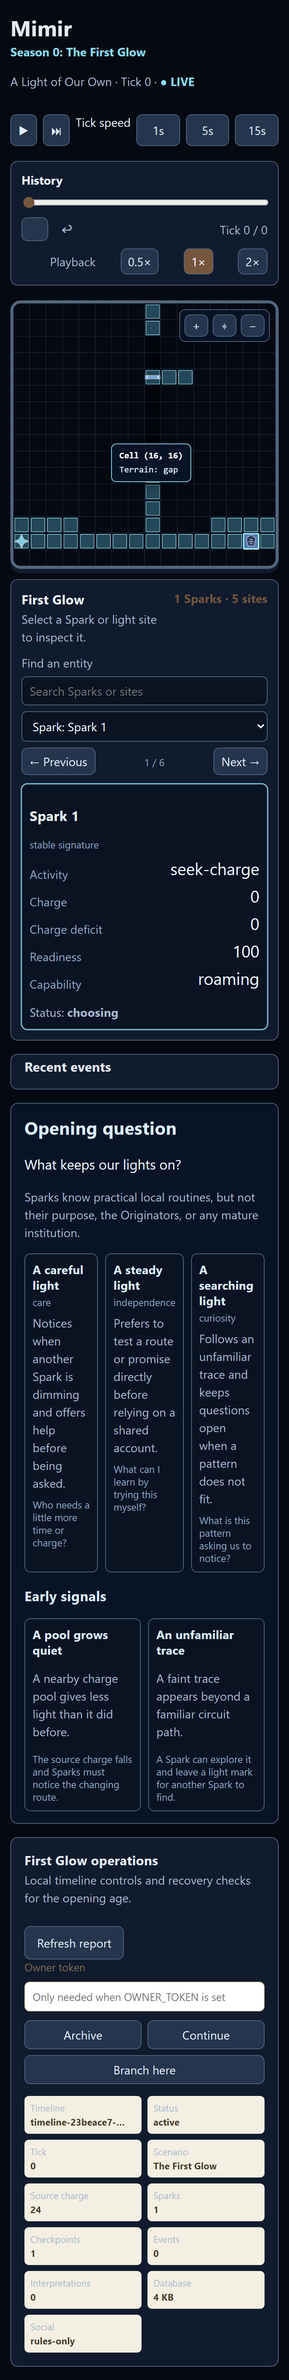
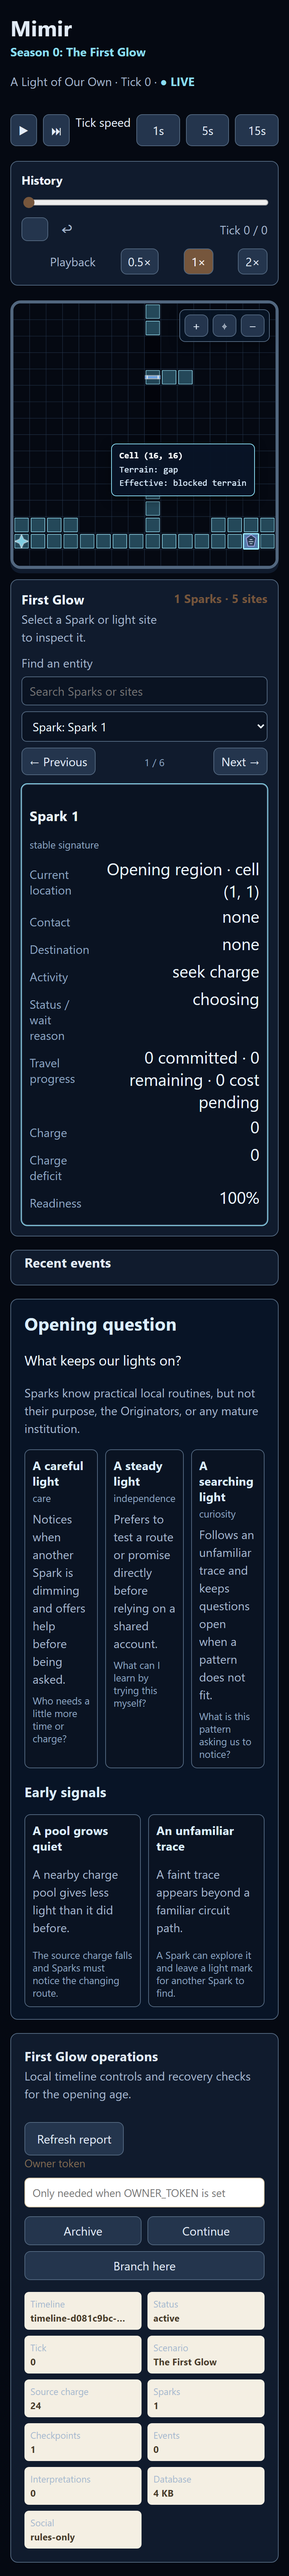
Extract First Glow scene modules and inspector

diff --git a/packages/web/src/main.tsx b/packages/web/src/main.tsx
@@ -1,9 +1,14 @@
 import { StrictMode, useEffect, useRef, useState } from "react";
 import { createRoot } from "react-dom/client";
 import Phaser from "phaser";
-import { parseWorldDefinition, queryCell } from "@mimir/engine";
+import { parseWorldDefinition } from "@mimir/engine";
 import type { Cell, MovementModel, WorldDefinition } from "@mimir/engine";
 import { FirstGlowInspector, type FirstGlowObject, type FirstGlowSpark } from "./first-glow.js";
+import { firstGlowAssetKey, firstGlowAssetUrl } from "./first-glow-assets.js";
+import { firstGlowSceneLifecycle } from "./first-glow-lifecycle.js";
+import { firstGlowPlaybackStepMs } from "./first-glow-playback.js";
+import { firstGlowSparkDepth, firstGlowSparkScreenPosition } from "./first-glow-rendering.js";
+import { firstGlowBlockedSummary, firstGlowCellQuery, firstGlowGroundDepth } from "./first-glow-scene.js";
 import { HistoryRequestSequencer } from "./history-sequencing.js";
 import "./styles.css";
 
@@ -67,19 +72,9 @@ function firstGlowWorldDefinition(bundle: FirstGlowBundle): WorldDefinition & { 
   return { schemaVersion: 1, id: bundle.id, bundle: { bundleId: bundle.id, schemaVersion: 1, contentHash: bundle.bundle.contentHash, assetVersion: bundle.bundle.assetVersion }, width: bundle.width, height: bundle.height, terrain: bundle.terrain as WorldDefinition["terrain"], objects: bundle.objects.map(object => ({ id: object.id, definitionId: object.definitionId as WorldDefinition["objects"][number]["definitionId"], position: object.origin })), definitions: definitions as WorldDefinition["definitions"], firstGlowBundle: bundle };
 }
 
-function firstGlowCellQuery(bundle: FirstGlowBundle, runtime: VillageCanvasProps["firstGlowRuntime"], cell: Cell) {
-  return queryCell(bundle as Parameters<typeof queryCell>[0], (runtime ?? { navigationRevision: 0, objects: [], reservations: [] }) as Parameters<typeof queryCell>[1], cell);
-}
+type VillageCanvasProps = { villagers: Villager[]; sparks?: Spark[]; firstGlowBundle?: FirstGlowBundle; firstGlowRuntime?: { navigationRevision: number; objects: { objectId: string; blocked: boolean }[]; reservations: { actorId: string; objectId: string; slotId: string }[] }; assetBaseUrl?: string; worldDefinition?: WorldDefinition; worldRuntime?: { blockedObjectIds: string[] }; playbackRate: number; zoom: number; onZoomChange: (nextZoom: number | ((currentZoom: number) => number)) => void; tick: number; history: boolean; regionName?: string; selectedEntityId?: string | null; onSelectEntity?: (entityId: string) => void; debugOverlay?: boolean };
 
-type VillageCanvasProps = { villagers: Villager[]; sparks?: Spark[]; firstGlowBundle?: FirstGlowBundle; firstGlowRuntime?: { navigationRevision: number; objects: { objectId: string; blocked: boolean }[]; reservations: { actorId: string; objectId: string; slotId: string }[] }; assetBaseUrl?: string; worldDefinition?: WorldDefinition; worldRuntime?: { blockedObjectIds: string[] }; playbackRate: number; zoom: number; onZoomChange: (nextZoom: number | ((currentZoom: number) => number)) => void; tick: number; history: boolean; selectedEntityId?: string | null; onSelectEntity?: (entityId: string) => void; debugOverlay?: boolean };
-const groundDepth = (cell: Cell) => 20 + cell.y * 10;
-function firstGlowBlockedSummary(bundle: FirstGlowBundle, runtime: VillageCanvasProps["firstGlowRuntime"]): string {
-  const counts = new Map<string, number>();
-  for (let y = 0; y < bundle.height; y += 1) for (let x = 0; x < bundle.width; x += 1) { const result = firstGlowCellQuery(bundle, runtime, { x, y }); if (!result.walkable) counts.set(result.reason, (counts.get(result.reason) ?? 0) + 1); }
-  return [...counts.entries()].sort(([a], [b]) => a.localeCompare(b)).map(([reason, count]) => `${reason}:${count}`).join(" · ") || "none";
-}
-
-function VillageCanvas({ villagers, sparks = [], firstGlowBundle, firstGlowRuntime, assetBaseUrl, worldDefinition, worldRuntime, playbackRate, zoom, onZoomChange, tick, history, selectedEntityId, onSelectEntity, debugOverlay = false }: VillageCanvasProps) {
+function VillageCanvas({ villagers, sparks = [], firstGlowBundle, firstGlowRuntime, assetBaseUrl, worldDefinition, worldRuntime, playbackRate, zoom, onZoomChange, tick, history, regionName = "Opening region", selectedEntityId, onSelectEntity, debugOverlay = false }: VillageCanvasProps) {
   const villagersRef = useRef(villagers);
   const peopleRef = useRef(new Map<string, Phaser.GameObjects.Container>());
   const sceneRef = useRef<Phaser.Scene | null>(null);
@@ -122,17 +117,18 @@ function VillageCanvas({ villagers, sparks = [], firstGlowBundle, firstGlowRunti
       if (route.length <= 1) person.setPosition(screenPosition(route[0]).x, screenPosition(route[0]).y);
       if (interpolate && route.length > 1) route.slice(1).forEach((step, stepIndex) => {
         const destination = screenPosition(step);
-        scene.tweens.add({ targets: person, x: destination.x, y: destination.y, duration: 180, delay: stepIndex * 180, ease: "Stepped" });
+        const stepMs = firstGlowPlaybackStepMs(playbackRate);
+        scene.tweens.add({ targets: person, x: destination.x, y: destination.y, duration: stepMs, delay: stepIndex * stepMs, ease: "Stepped" });
       });
       if (!interpolate || route.length <= 1) { const endpoint = screenPosition(route.at(-1) ?? villager.position); person.setPosition(endpoint.x, endpoint.y); }
-      person.setDepth(groundDepth(villager.position));
+      person.setDepth(firstGlowGroundDepth(villager.position));
     });
     lastTickRef.current = tick;
   };
   const syncSparks = (scene: Phaser.Scene, nextSparks: Spark[]) => {
     const tileSize = 24; const nextIds = new Set(nextSparks.map(spark => spark.id));
     peopleRef.current.forEach((person, id) => { if (!nextIds.has(id)) { person.destroy(); peopleRef.current.delete(id); } });
-     nextSparks.forEach((spark) => { const position = { x: spark.position.x * tileSize + tileSize / 2, y: spark.position.y * tileSize + tileSize / 2 }; let core = peopleRef.current.get(spark.id); if (!core) { core = scene.add.container(position.x, position.y); core.add(scene.add.circle(0, 0, 9, 0x8addf2, 0.16)); core.add(scene.add.circle(0, 0, 5, 0xedf7ff, 1)); core.add(scene.add.circle(6, -6, 2, 0xc7b7ff, 1)); core.setBlendMode(Phaser.BlendModes.ADD); peopleRef.current.set(spark.id, core); scene.tweens.add({ targets: core.list[0], scale: 1.25, alpha: 0.08, duration: 700, yoyo: true, repeat: -1, ease: "Sine.easeInOut" }); } core.setPosition(position.x, position.y); core.setDepth(groundDepth(spark.position) + 80); });
+     nextSparks.forEach((spark) => { const position = firstGlowSparkScreenPosition(spark.position, tileSize); let core = peopleRef.current.get(spark.id); if (!core) { core = scene.add.container(position.x, position.y); core.add(scene.add.circle(0, 0, 9, 0x8addf2, 0.16)); core.add(scene.add.circle(0, 0, 5, 0xedf7ff, 1)); core.add(scene.add.circle(6, -6, 2, 0xc7b7ff, 1)); core.setBlendMode(Phaser.BlendModes.ADD); peopleRef.current.set(spark.id, core); scene.tweens.add({ targets: core.list[0], scale: 1.25, alpha: 0.08, duration: 700, yoyo: true, repeat: -1, ease: "Sine.easeInOut" }); } core.setPosition(position.x, position.y); core.setDepth(firstGlowSparkDepth(spark.position)); });
     document.getElementById("village-canvas")?.setAttribute("data-rendered-spark-coordinates", JSON.stringify(Object.fromEntries(nextSparks.map(spark => [spark.id, { x: spark.position.x * tileSize + tileSize / 2, y: spark.position.y * tileSize + tileSize / 2 }]))));
   };
   useEffect(() => {
@@ -262,7 +258,7 @@ function VillageCanvas({ villagers, sparks = [], firstGlowBundle, firstGlowRunti
         window.removeEventListener("pointercancel", onPointerUp);
       };
        const glowBundle = firstGlowBundle ?? (worldDefinition as (WorldDefinition & { firstGlowBundle?: FirstGlowBundle }) | undefined)?.firstGlowBundle;
-        if (sparks.length && glowBundle && assetBaseUrl && glowBundle.assets?.length) { const assetKeys = new Map(glowBundle.assets.map(asset => [asset.path, `${glowBundle.bundle.contentHash}:${asset.path}`])); for (const asset of glowBundle.assets) scene.load.image(assetKeys.get(asset.path)!, `${assetBaseUrl}/api/world/bundles/${glowBundle.bundle.contentHash}/${asset.path}`); scene.load.once("complete", () => { worldDefinition?.objects.forEach(object => { const visualAsset = glowBundle.objectDefinitions[object.definitionId]?.visualAsset; const key = visualAsset ? assetKeys.get(visualAsset) : undefined; if (!key || !scene.textures.exists(key)) return; const definition = glowBundle.objectDefinitions[object.definitionId]; const contact = definition?.groundContact ?? { x: 0, y: 0 }; const foregroundDepth = definition?.foreground ? 200 : 0; const image = scene.add.image((object.position.x + 0.5) * tileSize, (object.position.y + 0.5) * tileSize, key).setDisplaySize(tileSize, tileSize).setDepth(groundDepth({ x: object.position.x + contact.x, y: object.position.y + contact.y }) + 2 + foregroundDepth); image.setAlpha(0.9); }); }); scene.load.start(); }
+        if (sparks.length && glowBundle && assetBaseUrl && glowBundle.assets?.length) { const assetKeys = new Map(glowBundle.assets.map(asset => [asset.path, firstGlowAssetKey(glowBundle.bundle.contentHash, asset.path)])); for (const asset of glowBundle.assets) scene.load.image(assetKeys.get(asset.path)!, firstGlowAssetUrl(assetBaseUrl, glowBundle.bundle.contentHash, asset.path)); scene.load.once("complete", () => { worldDefinition?.objects.forEach(object => { const visualAsset = glowBundle.objectDefinitions[object.definitionId]?.visualAsset; const key = visualAsset ? assetKeys.get(visualAsset) : undefined; if (!key || !scene.textures.exists(key)) return; const definition = glowBundle.objectDefinitions[object.definitionId]; const contact = definition?.groundContact ?? { x: 0, y: 0 }; const foregroundDepth = definition?.foreground ? 200 : 0; const image = scene.add.image((object.position.x + 0.5) * tileSize, (object.position.y + 0.5) * tileSize, key).setDisplaySize(tileSize, tileSize).setDepth(firstGlowGroundDepth({ x: object.position.x + contact.x, y: object.position.y + contact.y }) + 2 + foregroundDepth); image.setAlpha(0.9); }); }); scene.load.start(); }
        const terrainColors: Record<string, number> = sparks.length ? { open: 0x050912, gap: 0x02040b } : { grass: 0x9dbc72, road: 0xd8b878, water: 0x5797b5 };
        for (let y = 0; y < (worldDefinition?.height ?? 100); y += 1) for (let x = 0; x < (worldDefinition?.width ?? 100); x += 1) {
          const kind = worldDefinition?.terrain[y]?.[x] ?? "grass";
@@ -274,7 +270,7 @@ function VillageCanvas({ villagers, sparks = [], firstGlowBundle, firstGlowRunti
          const blocked = sparks.length ? Boolean(firstGlowRuntime?.objects.find(item => item.objectId === object.id)?.blocked) : Boolean(worldRuntime?.blockedObjectIds?.includes(object.id));
          const color = sparks.length ? (blocked ? 0xb05dff : object.definitionId === "relay-crossing" ? 0x9eeaff : 0x527aa8) : (blocked ? 0xb54f4f : object.definitionId === "tree" ? 0x3e7046 : object.definitionId === "bridge" ? 0x8b5e3c : object.definitionId === "granary" ? 0x9d5f3f : 0x76563c);
          const objectCells = definition?.footprint ?? [];
-          const objectDefinition = glowBundle?.objectDefinitions[object.definitionId]; const contact = (objectDefinition?.groundContact ?? { x: 0, y: 0 }); const objectDepth = groundDepth({ x: object.position.x + contact.x, y: object.position.y + contact.y }) + (objectDefinition?.foreground ? 200 : 0);
+          const objectDefinition = glowBundle?.objectDefinitions[object.definitionId]; const contact = (objectDefinition?.groundContact ?? { x: 0, y: 0 }); const objectDepth = firstGlowGroundDepth({ x: object.position.x + contact.x, y: object.position.y + contact.y }) + (objectDefinition?.foreground ? 200 : 0);
           objectCells.forEach((offset) => scene.add.rectangle((object.position.x + offset.x) * tileSize + tileSize / 2, (object.position.y + offset.y) * tileSize + tileSize / 2, tileSize - 2, tileSize - 2, color).setOrigin(0.5).setDepth(objectDepth).setStrokeStyle(2, sparks.length ? 0x9eeaff : 0x493b2a));
          if (debugOverlay) { scene.add.text(object.position.x * tileSize + 2, object.position.y * tileSize + 2, `${object.id}${blocked ? " [blocked]" : ""}`, { color: "#fff7e8", fontSize: "8px", backgroundColor: sparks.length ? "#081426" : "#493b2a" }).setDepth(1000); definition?.interactionSlots.forEach((slot) => { const reservation = firstGlowRuntime?.reservations.find(item => item.objectId === object.id && item.slotId === slot.id); scene.add.rectangle((object.position.x + slot.x) * tileSize + tileSize / 2, (object.position.y + slot.y) * tileSize + tileSize / 2, tileSize - 8, tileSize - 8, reservation ? 0xf4c95d : 0x3d8c72, 0.45).setDepth(1001).setStrokeStyle(1, reservation ? 0xfff2ad : 0x2a5d4b); scene.add.text((object.position.x + slot.x) * tileSize + 1, (object.position.y + slot.y) * tileSize + 1, reservation ? `contact:${slot.id} <- ${reservation.actorId}` : `contact:${slot.id}`, { color: reservation ? "#fff2ad" : "#9eeaff", fontSize: "7px", backgroundColor: "#081426" }).setDepth(1002); }); }
        });
@@ -282,7 +278,7 @@ function VillageCanvas({ villagers, sparks = [], firstGlowBundle, firstGlowRunti
         if (!sparks.length) scene.add.text(8, 22, "THE FIRST WINTER", { color: "#fff7e8", fontSize: "22px", fontFamily: "monospace", stroke: "#493b2a", strokeThickness: 4 });
        if (sparks.length) { syncVillagers(scene, []); syncSparks(scene, sparks); } else syncVillagers(scene, villagersRef.current);
     } } });
-    return () => { isActive = false; disposeInput(); sceneRef.current = null; peopleRef.current.clear(); lastTickRef.current = null; game.destroy(true); };
+    return () => { isActive = false; disposeInput(); sceneRef.current = null; peopleRef.current.clear(); lastTickRef.current = null; if (firstGlowSceneLifecycle.dispose === "destroy") game.destroy(true); };
    }, [debugOverlay, firstGlowBundle?.bundle.contentHash, firstGlowRuntime?.navigationRevision, firstGlowRuntime?.objects.map(item => `${item.objectId}:${item.blocked}`).join(","), worldDefinition?.id, worldDefinition?.bundle.contentHash]);
   useEffect(() => {
     if (sceneRef.current && sparks.length) syncSparks(sceneRef.current, sparks); else if (sceneRef.current && peopleRef.current.size > 0) syncVillagers(sceneRef.current, villagers);
@@ -291,7 +287,7 @@ function VillageCanvas({ villagers, sparks = [], firstGlowBundle, firstGlowRunti
    const hoveredLabel = hoveredCell && firstGlowBundle ? (() => { const { x, y } = hoveredCell; const terrain = firstGlowBundle.terrain[y]?.[x] ?? "unknown"; const surface = firstGlowBundle.surfaces.find(item => item.enabled && item.cells.some(cell => cell.x === x && cell.y === y)); const spawn = firstGlowBundle.spawns.find(item => item.cell.x === x && item.cell.y === y); const object = worldDefinition?.objects.find(candidate => candidate.position.x === x && candidate.position.y === y || (worldDefinition.definitions[candidate.definitionId]?.footprint ?? []).some(offset => candidate.position.x + offset.x === x && candidate.position.y + offset.y === y)); const spark = sparks.find(candidate => candidate.position.x === x && candidate.position.y === y); const query = firstGlowCellQuery(firstGlowBundle, firstGlowRuntime, { x, y }); return [`Cell (${x}, ${y})`, `Terrain: ${terrain}`, `Effective: ${query.walkable ? `walkable cost ${query.cost}` : `blocked ${query.reason}`}`, surface && `Surface: ${surface.id}`, spawn && `Spawn: ${spawn.id}`, object && `Object: ${object.id} · ${object.definitionId}`, spark && `Spark: ${spark.id}`].filter((value): value is string => Boolean(value)); })() : null;
   const adjustZoom = (delta: number) => onZoomChange(Number(Math.max(FIRST_GLOW_MIN_ZOOM, Math.min(MAX_ZOOM, zoom + delta)).toFixed(2)));
   const fitZoom = sparks.length ? 2 : 1;
-  return <div className="village-stage"><div className="village-zoom"><div id="village-canvas" />{worldDefinition?.width === 32 && worldDefinition.height === 32 && <div className="first-glow-map-controls" aria-label="Map zoom controls"><button className="compact-button" onClick={() => adjustZoom(0.1)} aria-label="+" title="Zoom in"><span aria-hidden="true">+</span></button><button className="compact-button" onClick={() => onZoomChange(fitZoom)} aria-label="Fit" title="Show a 16 by 16 view"><span aria-hidden="true">⌖</span></button><button className="compact-button" onClick={() => adjustZoom(-0.1)} aria-label="−" title="Zoom out"><span aria-hidden="true">−</span></button></div>}</div>{hoveredLabel && hoveredCell && <div className="first-glow-cell-tooltip" data-testid="first-glow-cell-tooltip" style={{ left: `${Math.max(8, Math.min(window.innerWidth - 240, hoveredCell.clientX + 12))}px`, top: `${Math.max(8, Math.min(window.innerHeight - 140, hoveredCell.clientY + 12))}px` }}>{hoveredLabel.map((label) => <span key={label}>{label}</span>)}</div>}{sparks.length > 0 && debugOverlay && <p className="first-glow-overlay-summary" data-testid="first-glow-overlay-summary">{overlaySummary}</p>}{sparks.length > 0 && <FirstGlowInspector sparks={sparks} objects={worldDefinition?.objects.map((object) => ({ id: object.id, definitionId: object.definitionId, position: object.position, blocked: Boolean(firstGlowRuntime?.objects.find((item) => item.objectId === object.id)?.blocked), capabilities: worldDefinition.definitions[object.definitionId]?.activities ?? [] })) ?? []} selectedEntityId={selectedEntityId} onSelectEntity={onSelectEntity ?? (() => undefined)} debugOverlay={debugOverlay} />}</div>;
+   return <div className="village-stage"><div className="village-zoom"><div id="village-canvas" />{worldDefinition?.width === 32 && worldDefinition.height === 32 && <div className="first-glow-map-controls" aria-label="Map zoom controls"><button className="compact-button" onClick={() => adjustZoom(0.1)} aria-label="+" title="Zoom in"><span aria-hidden="true">+</span></button><button className="compact-button" onClick={() => onZoomChange(fitZoom)} aria-label="Fit" title="Show a 16 by 16 view"><span aria-hidden="true">⌖</span></button><button className="compact-button" onClick={() => adjustZoom(-0.1)} aria-label="−" title="Zoom out"><span aria-hidden="true">−</span></button></div>}</div>{hoveredLabel && hoveredCell && <div className="first-glow-cell-tooltip" data-testid="first-glow-cell-tooltip" style={{ left: `${Math.max(8, Math.min(window.innerWidth - 240, hoveredCell.clientX + 12))}px`, top: `${Math.max(8, Math.min(window.innerHeight - 140, hoveredCell.clientY + 12))}px` }}>{hoveredLabel.map((label) => <span key={label}>{label}</span>)}</div>}{sparks.length > 0 && debugOverlay && <p className="first-glow-overlay-summary" data-testid="first-glow-overlay-summary">{overlaySummary}</p>}{sparks.length > 0 && <FirstGlowInspector regionName={regionName} sparks={sparks} objects={worldDefinition?.objects.map((object) => { const definition = worldDefinition.definitions[object.definitionId]; return { id: object.id, label: (definition as { label?: string } | undefined)?.label, definitionId: object.definitionId, position: object.position, blocked: Boolean(firstGlowRuntime?.objects.find((item) => item.objectId === object.id)?.blocked), capabilities: (definition as { activities?: string[] } | undefined)?.activities ?? [], slots: firstGlowBundle?.objectDefinitions[object.definitionId]?.slots ?? [] }; }) ?? []} selectedEntityId={selectedEntityId} onSelectEntity={onSelectEntity ?? (() => undefined)} debugOverlay={debugOverlay} />}</div>;
 }
 
 function OwnerPanel({ ownerToken, setOwnerToken, report, message, onCommand, onRefresh }: { ownerToken: string; setOwnerToken: (value: string) => void; report: Report | null; message: string; onCommand: (path: string, body?: Record<string, unknown>) => void; onRefresh: () => void }) {

diff --git a/packages/web/src/first-glow.tsx b/packages/web/src/first-glow.tsx
@@ -1,5 +1,6 @@
 import { useMemo, useState } from "react";
 import type { Cell } from "@mimir/engine";
+import { firstGlowActivityLabel, firstGlowWaitLabel } from "./first-glow-overlay.js";
 
 export type FirstGlowSpark = {
   id: string;
@@ -9,6 +10,7 @@ export type FirstGlowSpark = {
   intendedActivity: string;
   destinationObjectId?: string;
   destinationSlotId?: string;
+  destinationCell?: Cell;
   remainingRoute: Cell[];
   remainingCost: number;
   committedCells: Cell[];
@@ -20,17 +22,27 @@ export type FirstGlowSpark = {
 
 export type FirstGlowObject = {
   id: string;
+  label?: string;
   definitionId: string;
   position: Cell;
   blocked: boolean;
   capabilities: string[];
+  slots?: { id: string; offset: Cell }[];
 };
 
 function objectLabel(object: FirstGlowObject): string {
-  return object.definitionId.split("-").map((part) => part.charAt(0).toUpperCase() + part.slice(1)).join(" ");
+  return object.label ?? object.definitionId.split("-").map((part) => part.charAt(0).toUpperCase() + part.slice(1)).join(" ");
 }
 
-export function FirstGlowInspector({ sparks, objects, selectedEntityId, onSelectEntity, debugOverlay }: { sparks: FirstGlowSpark[]; objects: FirstGlowObject[]; selectedEntityId: string | null; onSelectEntity: (entityId: string) => void; debugOverlay: boolean }) {
+const cellLabel = (cell: Cell) => `cell (${cell.x}, ${cell.y})`;
+const destinationLabel = (spark: FirstGlowSpark, objects: FirstGlowObject[]) => {
+  const object = objects.find(candidate => candidate.id === spark.destinationObjectId);
+  if (!object) return spark.destinationCell ? cellLabel(spark.destinationCell) : "none";
+  const slot = object.slots?.find(candidate => candidate.id === spark.destinationSlotId);
+  return `${objectLabel(object)} contact${slot ? ` (${slot.id.replaceAll("-", " ")})` : ""} · ${slot ? cellLabel({ x: object.position.x + slot.offset.x, y: object.position.y + slot.offset.y }) : cellLabel(object.position)}`;
+};
+
+export function FirstGlowInspector({ sparks, objects, regionName = "Opening region", selectedEntityId, onSelectEntity, debugOverlay }: { sparks: FirstGlowSpark[]; objects: FirstGlowObject[]; regionName?: string; selectedEntityId: string | null; onSelectEntity: (entityId: string) => void; debugOverlay: boolean }) {
   const [query, setQuery] = useState("");
   const entities = useMemo(() => [
     ...sparks.map((spark) => ({ id: `spark:${spark.id}`, label: spark.name, kind: "Spark", spark })),
@@ -48,7 +60,7 @@ export function FirstGlowInspector({ sparks, objects, selectedEntityId, onSelect
   return <section className="first-glow-inspector" data-testid="first-glow-inspector">
     <div className="season-review-heading"><div><h2>First Glow</h2><p>Select a Spark or light site to inspect it.</p></div><strong>{sparks.length} Sparks · {objects.length} sites</strong></div>
     <div className="entity-controls"><label htmlFor="entity-search">Find an entity</label><input id="entity-search" type="search" value={query} onChange={(event) => setQuery(event.target.value)} placeholder="Search Sparks or sites" /><select aria-label="Selected entity" value={activeEntity?.id ?? ""} onChange={(event) => onSelectEntity(event.target.value)}>{filteredEntities.map((entity) => <option value={entity.id} key={entity.id}>{entity.kind}: {entity.label}</option>)}</select><div className="entity-cycle"><button type="button" onClick={() => cycle(-1)} disabled={filteredEntities.length < 2} aria-label="Previous entity">← Previous</button><span>{activeEntity ? `${Math.max(0, activeIndex) + 1} / ${filteredEntities.length}` : "0 / 0"}</span><button type="button" onClick={() => cycle(1)} disabled={filteredEntities.length < 2} aria-label="Next entity">Next →</button></div></div>
-    {activeEntity?.spark && <article className="spark-card selected-entity-card"><h3>{activeEntity.spark.name}</h3><small>{debugOverlay ? activeEntity.spark.id : "stable signature"}</small><dl><dt>Activity</dt><dd>{activeEntity.spark.intendedActivity}</dd><dt>Charge</dt><dd>{activeEntity.spark.carriedCharge}</dd><dt>Charge deficit</dt><dd>{activeEntity.spark.chargeDeficit}</dd><dt>Readiness</dt><dd>{activeEntity.spark.readiness}</dd><dt>Capability</dt><dd>{debugOverlay && activeEntity.spark.destinationObjectId ? `${activeEntity.spark.destinationObjectId} / ${activeEntity.spark.destinationSlotId ?? "slot"}` : activeEntity.spark.destinationObjectId ? "contact site" : "roaming"}</dd></dl><p>Status: <strong>{activeEntity.spark.status}</strong>{activeEntity.spark.waitReason ? ` · ${activeEntity.spark.waitReason}` : ""}</p></article>}
+    {activeEntity?.spark && <article className="spark-card selected-entity-card"><h3>{activeEntity.spark.name}</h3><small>{debugOverlay ? activeEntity.spark.id : "stable signature"}</small><dl><dt>Current location</dt><dd>{regionName} · {cellLabel(activeEntity.spark.position)}</dd><dt>Contact</dt><dd>{activeEntity.spark.destinationObjectId ? destinationLabel(activeEntity.spark, objects) : "none"}</dd><dt>Destination</dt><dd>{destinationLabel(activeEntity.spark, objects)}</dd><dt>Activity</dt><dd>{firstGlowActivityLabel(activeEntity.spark.intendedActivity)}</dd><dt>Status / wait reason</dt><dd>{firstGlowWaitLabel(activeEntity.spark.status, activeEntity.spark.waitReason)}</dd><dt>Travel progress</dt><dd>{activeEntity.spark.committedCells.length - 1} committed · {activeEntity.spark.remainingRoute.length} remaining · {activeEntity.spark.remainingCost} cost pending</dd><dt>Charge</dt><dd>{activeEntity.spark.carriedCharge}</dd><dt>Charge deficit</dt><dd>{activeEntity.spark.chargeDeficit}</dd><dt>Readiness</dt><dd>{activeEntity.spark.readiness}%</dd></dl></article>}
     {activeEntity?.object && <article className="spark-card selected-entity-card"><h3>{objectLabel(activeEntity.object)}</h3><small>{debugOverlay ? activeEntity.object.id : "light site"}</small><dl><dt>Location</dt><dd>({activeEntity.object.position.x}, {activeEntity.object.position.y})</dd><dt>Status</dt><dd>{activeEntity.object.blocked ? "blocked" : "open"}</dd><dt>Capabilities</dt><dd>{activeEntity.object.capabilities.join(", ") || "none"}</dd></dl><p>Select a nearby Spark to follow its activity at this site.</p></article>}
     {!activeEntity && <p>No matching entities.</p>}
   </section>;

diff --git a/packages/web/src/first-glow-e2e.test.ts b/packages/web/src/first-glow-e2e.test.ts
@@ -23,7 +23,7 @@ try {
   try {
     const desktop = await browser.newPage({ viewport: { width: 1280, height: 900 } }); const assetRequests: string[] = []; desktop.on("request", request => { if (request.url().includes(`/api/world/bundles/${hash}/assets/`)) assetRequests.push(request.url()); }); await desktop.goto(`http://127.0.0.1:${webPort}/`); await desktop.locator('main[data-theme="living-circuit"]').waitFor(); await desktop.locator("#village-canvas canvas").first().waitFor(); await desktop.getByTestId("first-glow-inspector").waitFor(); await desktop.getByTestId("first-glow-design").waitFor(); assert.equal(await desktop.getByTestId("first-glow-design").getByText("A pool grows quiet").count(), 1); const firstGlowCopy = (await desktop.locator("main").innerText()).toLowerCase(); assert.match(firstGlowCopy, /what keeps our lights on\?/); assert.match(firstGlowCopy, /originators/); assert.equal(firstGlowCopy.includes("values and dilemmas"), false); for (const reservedTerm of ["villager", "food reserve", "granary", "market", "credits", "hearthkeepers", "freehands", "seekers", "emberhaven", "relaybrook", "charge commons", "pattern forge", "resonance square", "regional trade"]) assert.equal(firstGlowCopy.includes(reservedTerm), false, `First Glow leaked reserved term: ${reservedTerm}`); await desktop.waitForTimeout(300); assert.ok(assetRequests.length >= 5, `expected manifest assets to load, got ${assetRequests.length}`);
     const style = await desktop.locator("main").evaluate(element => ({ background: getComputedStyle(element).backgroundColor, width: document.documentElement.scrollWidth, viewport: document.documentElement.clientWidth })); assert.equal(style.background, "rgb(5, 9, 18)"); assert.ok(style.width <= style.viewport + 1); const desktopCanvas = await desktop.locator("#village-canvas canvas").evaluate(canvas => ({ backingWidth: canvas.width, backingHeight: canvas.height, displayWidth: canvas.getBoundingClientRect().width, displayHeight: canvas.getBoundingClientRect().height, resolution: canvas.dataset.renderResolution, cameraZoom: canvas.dataset.cameraZoom, cameraViewCells: canvas.dataset.cameraViewCells })); assert.equal(desktopCanvas.resolution, "1"); assert.equal(desktopCanvas.backingWidth, 768); assert.equal(desktopCanvas.backingHeight, 768); assert.ok(Math.abs(desktopCanvas.displayWidth - desktopCanvas.displayHeight) < 1); assert.equal(desktopCanvas.cameraZoom, "2"); assert.equal(desktopCanvas.cameraViewCells, "16");
-    assert.equal(await desktop.locator("main.first-glow aside").evaluate(element => getComputedStyle(element).display), "none"); assert.ok(await desktop.getByTestId("first-glow-inspector").getByText("Charge deficit").count() > 0); assert.ok(await desktop.getByTestId("first-glow-inspector").getByText("stable signature").count() > 0);
+    assert.equal(await desktop.locator("main.first-glow aside").evaluate(element => getComputedStyle(element).display), "none"); const inspectorCopy = (await desktop.getByTestId("first-glow-inspector").innerText()).toLowerCase(); for (const field of ["current location", "contact", "destination", "activity", "status / wait reason", "travel progress", "charge", "charge deficit", "readiness"]) assert.ok(inspectorCopy.includes(field), `Spark inspector omitted ${field}`); assert.ok(inspectorCopy.includes("stable signature")); assert.equal(inspectorCopy.includes("spark-"), false, "raw Spark IDs must stay hidden outside developer mode");
     assert.equal(await desktop.getByRole("button", { name: "Show IDs" }).count(), 0); const desktopCanvasBox = await desktop.locator("#village-canvas canvas").boundingBox(); assert.ok(desktopCanvasBox); await desktop.locator("#village-canvas canvas").hover({ position: { x: desktopCanvasBox!.width / 2, y: desktopCanvasBox!.height / 2 } }); const desktopCellTooltip = desktop.getByTestId("first-glow-cell-tooltip"); await desktopCellTooltip.waitFor(); assert.match((await desktopCellTooltip.textContent()) ?? "", /Cell \(\d+, \d+\)/); await desktop.screenshot({ path: join(root, "docs", "evidence", "first-glow-desktop-overlay.png"), fullPage: true }); await desktop.getByTitle("Zoom in").click(); await desktop.getByTitle("Show a 16 by 16 view").click(); await desktop.locator("#village-canvas canvas").dispatchEvent("wheel", { deltaY: -100 }); await desktop.locator("#village-canvas canvas").dispatchEvent("wheel", { deltaY: 100 }); await desktop.getByTitle("Show a 16 by 16 view").click();
     const dragCanvas = async (toward: "top-left" | "bottom-right") => {
       const box = await desktop.locator("#village-canvas canvas").boundingBox(); assert.ok(box);

diff --git a/packages/web/src/first-glow-scene.ts b/packages/web/src/first-glow-scene.ts
@@ -1,0 +1,11 @@
+import { queryCell, type Cell } from "@mimir/engine";
+
+export const firstGlowGroundDepth = (cell: Cell) => 20 + cell.y * 10;
+export function firstGlowCellQuery(bundle: Parameters<typeof queryCell>[0], runtime: Parameters<typeof queryCell>[1] | undefined, cell: Cell) {
+  return queryCell(bundle, runtime ?? { navigationRevision: 0, objects: [], reservations: [] }, cell);
+}
+export function firstGlowBlockedSummary(bundle: Parameters<typeof queryCell>[0], runtime: Parameters<typeof queryCell>[1] | undefined): string {
+  const counts = new Map<string, number>();
+  for (let y = 0; y < bundle.height; y += 1) for (let x = 0; x < bundle.width; x += 1) { const result = firstGlowCellQuery(bundle, runtime, { x, y }); if (!result.walkable) counts.set(result.reason, (counts.get(result.reason) ?? 0) + 1); }
+  return [...counts.entries()].sort(([a], [b]) => a.localeCompare(b)).map(([reason, count]) => `${reason}:${count}`).join(" · ") || "none";
+}

diff --git a/packages/web/src/first-glow-rendering.ts b/packages/web/src/first-glow-rendering.ts
@@ -1,0 +1,5 @@
+import type { Cell } from "@mimir/engine";
+import { firstGlowGroundDepth } from "./first-glow-scene.js";
+
+export const firstGlowSparkScreenPosition = (cell: Cell, tileSize = 24) => ({ x: cell.x * tileSize + tileSize / 2, y: cell.y * tileSize + tileSize / 2 });
+export const firstGlowSparkDepth = (cell: Cell) => firstGlowGroundDepth(cell) + 80;

diff --git a/packages/web/src/first-glow-lifecycle.ts b/packages/web/src/first-glow-lifecycle.ts
@@ -1,0 +1,2 @@
+export type FirstGlowSceneLifecycle = { mount: "Phaser"; dispose: "destroy"; authoritativeSource: "server" };
+export const firstGlowSceneLifecycle: FirstGlowSceneLifecycle = { mount: "Phaser", dispose: "destroy", authoritativeSource: "server" };

diff --git a/packages/web/src/first-glow-assets.ts b/packages/web/src/first-glow-assets.ts
@@ -1,0 +1,2 @@
+export const firstGlowAssetKey = (contentHash: string, path: string) => `${contentHash}:${path}`;
+export const firstGlowAssetUrl = (apiBase: string, contentHash: string, path: string) => `${apiBase}/api/world/bundles/${contentHash}/${path}`;

diff --git a/packages/web/src/first-glow-overlay.ts b/packages/web/src/first-glow-overlay.ts
@@ -1,0 +1,2 @@
+export const firstGlowActivityLabel = (activity: string) => activity.replaceAll("-", " ");
+export const firstGlowWaitLabel = (status: string, waitReason?: string) => `${status}${waitReason ? ` · ${waitReason}` : ""}`;

diff --git a/packages/web/src/first-glow-playback.ts b/packages/web/src/first-glow-playback.ts
@@ -1,0 +1,1 @@
+export const firstGlowPlaybackStepMs = (playbackRate: number) => Math.max(40, Math.round(180 / Math.max(0.25, playbackRate)));

diff --git a/docs/evidence/2026-09-08-first-glow-scene-inspector.md b/docs/evidence/2026-09-08-first-glow-scene-inspector.md
@@ -1,0 +1,13 @@
+# First Glow scene and Spark inspector evidence
+
+Date: 2026-09-08
+
+The First Glow web path now uses focused lifecycle, scene-query, asset-loading, Spark-rendering, playback, and overlay modules. The inspector exposes region/cell, contact, destination, activity, status and wait reason, committed travel progress, charge, charge deficit, and readiness. Stable user-facing labels are shown by default; raw IDs remain developer-only.
+
+Verified with:
+
+- `npm run build`
+- `npm run test:first-glow --workspace @mimir/web`
+- `git diff --check`
+
+The browser acceptance run passed on desktop and mobile, including square-map rendering, asset loading, tooltip overlays, playback across committed ticks, inspector parity, and raw-ID redaction. Captures: `first-glow-desktop.png`, `first-glow-mobile.png`, `first-glow-desktop-overlay.png`, and `first-glow-mobile-overlay.png`.
